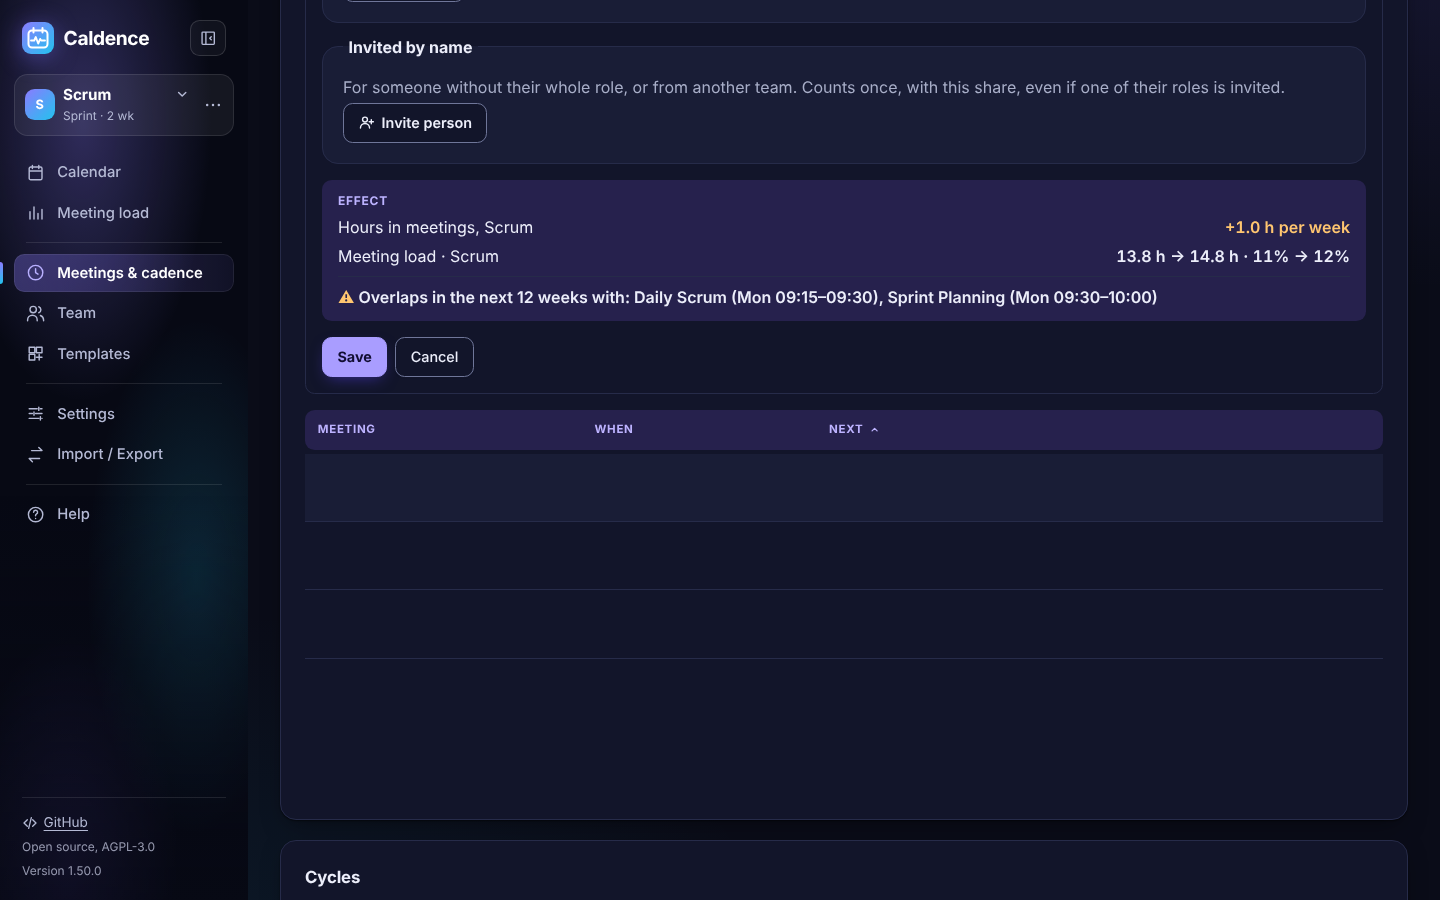
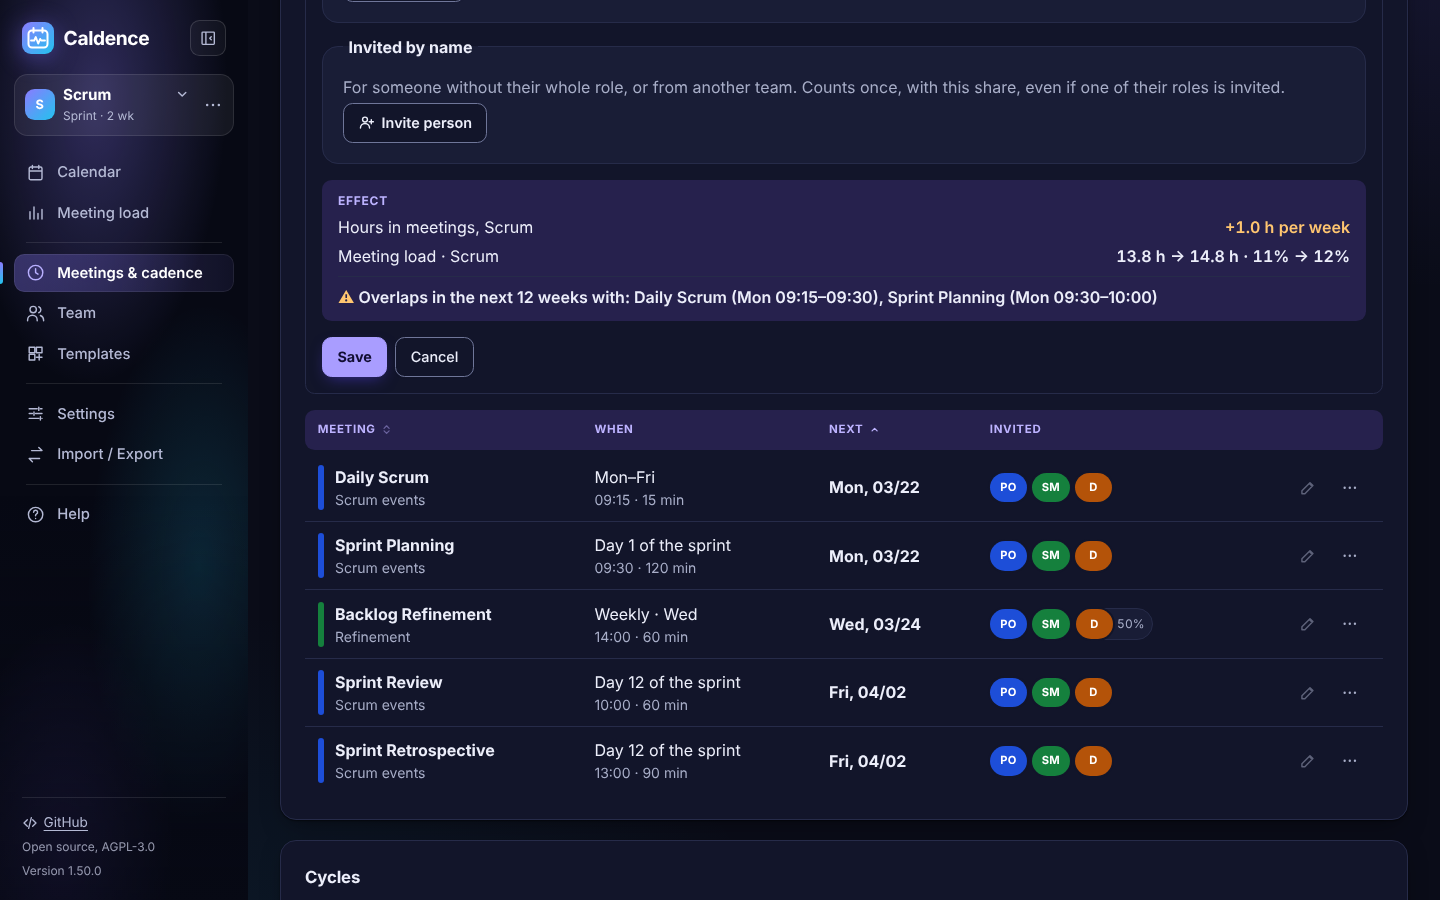
Meeting form overlaps: review fixes (#477)
Invalid entries show the effect's invalid note instead of an empty
overlap line; another unit reads "Name (Team B, Mon 09:15-09:30)";
the note is a status; OVERLAP_ROWS is one core constant; e2e for a
meeting of another team; recaptured PNGs.

diff --git a/src/ui/components/EventForm.svelte b/src/ui/components/EventForm.svelte
@@ -13,7 +13,7 @@
   } from '../../core/model';
   import { areaHours } from '../../core/load';
   import { addDays } from '../../core/date';
-  import { meetingOverlaps, overviewWindow } from '../../core/views';
+  import { meetingOverlaps, OVERLAP_ROWS, overviewWindow } from '../../core/views';
   import { areaText, levels, locale, nextWeeks, translate } from '../../i18n';
   import { upsertEvent } from '../../core/edit';
   import { validate } from '../../core/validate';
@@ -348,8 +348,8 @@
   /**
    * The meetings the draft overlaps for the people it invites, as Meeting load counts them (#477):
    * same pairs, same window, at most OVERLAP_ROWS named. Time and weekday count here; the name not.
+   * Undefined while an entry is invalid: the box then says so instead of implying no overlap.
    */
-  const OVERLAP_ROWS = 50;
   const overlapKey = $derived(
     Object.keys(dupErrors()).length > 0
       ? ''
@@ -357,10 +357,10 @@
   );
   const overlapWindow = $derived(overviewWindow($workspace.settings.horizon, localToday()));
   const overlapPairs = $derived.by(() => {
-    if (!overlapKey) return [];
+    if (!overlapKey) return undefined;
     const [next, eventId] = upsertEvent($workspace, team.id, JSON.parse(overlapKey));
     const checked = validate(next);
-    if (!checked.ok) return [];
+    if (!checked.ok) return undefined;
     const { from, weeks } = overlapWindow;
     return meetingOverlaps(checked.value, $index, team.id, eventId, {
       from,
@@ -368,8 +368,9 @@
     });
   });
   const overlapNote = $derived.by(() => {
-    if (overlapPairs.length === 0) return undefined;
+    if (!overlapPairs?.length) return undefined;
     const names = overlapPairs.slice(0, OVERLAP_ROWS).map((p) => {
+      // A meeting of another team or area names it: "Replenishment (Team Beta, Thu 11:00–12:00)".
       const other =
         p.b.teamId === team.id ? undefined : unitName($workspace, p.b.teamId, $levels.org);
       const name =
@@ -896,7 +897,7 @@
           cadence={team.cadence}
           compact
           live={false}
-          error={after ? undefined : tt('meet.effect.invalid')}
+          error={after && overlapPairs ? undefined : tt('meet.effect.invalid')}
           note={overlapNote}
           warn
         />

diff --git a/tests/e2e/meetings.spec.ts b/tests/e2e/meetings.spec.ts
@@ -786,4 +786,23 @@ test('the form lists the meetings the draft overlaps, live while editing (#477)'
   await expect(note).toBeVisible();
   await form.getByLabel('Duration (minutes)').fill('15');
   await expect(note).toHaveCount(0);
+  // A half-typed time shows no false all-clear: the box asks for valid entries.
+  await form.getByLabel('Duration (minutes)').fill('60');
+  await form.getByLabel('Time (HH:MM)').fill('09:');
+  await expect(form.locator('.effect')).toContainText(
+    'The effect shows once all entries are valid.',
+  );
+  await expect(note).toHaveCount(0);
+});
+
+test('the form names the team of an overlapping meeting elsewhere (#477)', async ({ page }) => {
+  await page.clock.setFixedTime(new Date('2027-03-17T12:00:00'));
+  await openMeetings(page);
+  // Alex is Product Owner of Team Alpha and Team Beta; Beta's Flow Review is Fri 13:30–14:00.
+  const form = await startNew(page, 'PO office hour');
+  await form.getByLabel('Weekday').selectOption({ label: 'Friday' });
+  await form.getByLabel('Time (HH:MM)').fill('13:00');
+  await expect(form.locator('[data-effect-note]')).toHaveText(
+    'Overlaps in the next 12 weeks with: Flow Review (Team Beta, Fri 13:30–14:00)',
+  );
 });

diff --git a/src/ui/meetings/rules.ts b/src/ui/meetings/rules.ts
@@ -1,6 +1,7 @@
 import { mondayOf } from '../../core/date';
 import type { CalEvent, Rule, Team } from '../../core/model';
-import { weekdayRuns as dayRuns, type OverlapPair } from '../../core/views';
+// Core's runs keep every neighbour together; the local `weekdayRuns` below splits short runs.
+import { weekdayRuns as overlapDayRuns, type OverlapPair } from '../../core/views';
 import { formatDisplayDate, formatNumber, type Locale } from '../../i18n';
 
 export const RULE_TYPES = [
@@ -198,7 +199,7 @@ export function overlapWhen(
   p: OverlapPair,
 ): string {
   const wd = (d: number) => weekdayShort(loc, d);
-  const weekdays = dayRuns(p.weekdays)
+  const weekdays = overlapDayRuns(p.weekdays)
     .map(([a, b]) => (a === b ? wd(a) : `${wd(a)}${b - a > 1 ? '–' : ', '}${wd(b)}`))
     .join(', ');
   return t('overlaps.when', { weekdays, from: p.start, to: p.end });

diff --git a/src/ui/views/LoadView.svelte b/src/ui/views/LoadView.svelte
@@ -33,6 +33,7 @@
     clashes,
     loadSummary,
     overlapPairs,
+    OVERLAP_ROWS,
     overviewWindow,
     scopePeople,
     scopeUnits,
@@ -343,7 +344,6 @@
    * The overlaps of the people in scope by meeting pair (#445), in the area Overview's window, so
    * both count the same. Only pairs that touch the units in scope, unless a person is chosen.
    */
-  const OVERLAP_ROWS = 50;
   let overlapsBox: HTMLElement | undefined = $state();
   // Brought into view when asked for from the area Overview (#445).
   $effect(() => {

diff --git a/src/core/views.ts b/src/core/views.ts
@@ -589,6 +589,9 @@ export function weekdayRuns(days: readonly number[]): [number, number][] {
   return out;
 }
 
+/** Overlap pairs listed at first in Meeting load, and named at most in the meeting form (#445, #477). */
+export const OVERLAP_ROWS = 50;
+
 /** Weeks in the window of the area Overview and of the overlaps in Meeting load. */
 export const WINDOW_WEEKS = 12;
 

diff --git a/src/ui/components/WhatIfEffect.svelte b/src/ui/components/WhatIfEffect.svelte
@@ -172,7 +172,9 @@
         </div>
       {/if}
     </dl>
-    {#if note}<p class="note" class:warn data-effect-note>{note}</p>{/if}
+    {#if note}<p class="note" class:warn role={warn ? 'status' : undefined} data-effect-note>
+        {note}
+      </p>{/if}
   {/if}
 </div>
 
